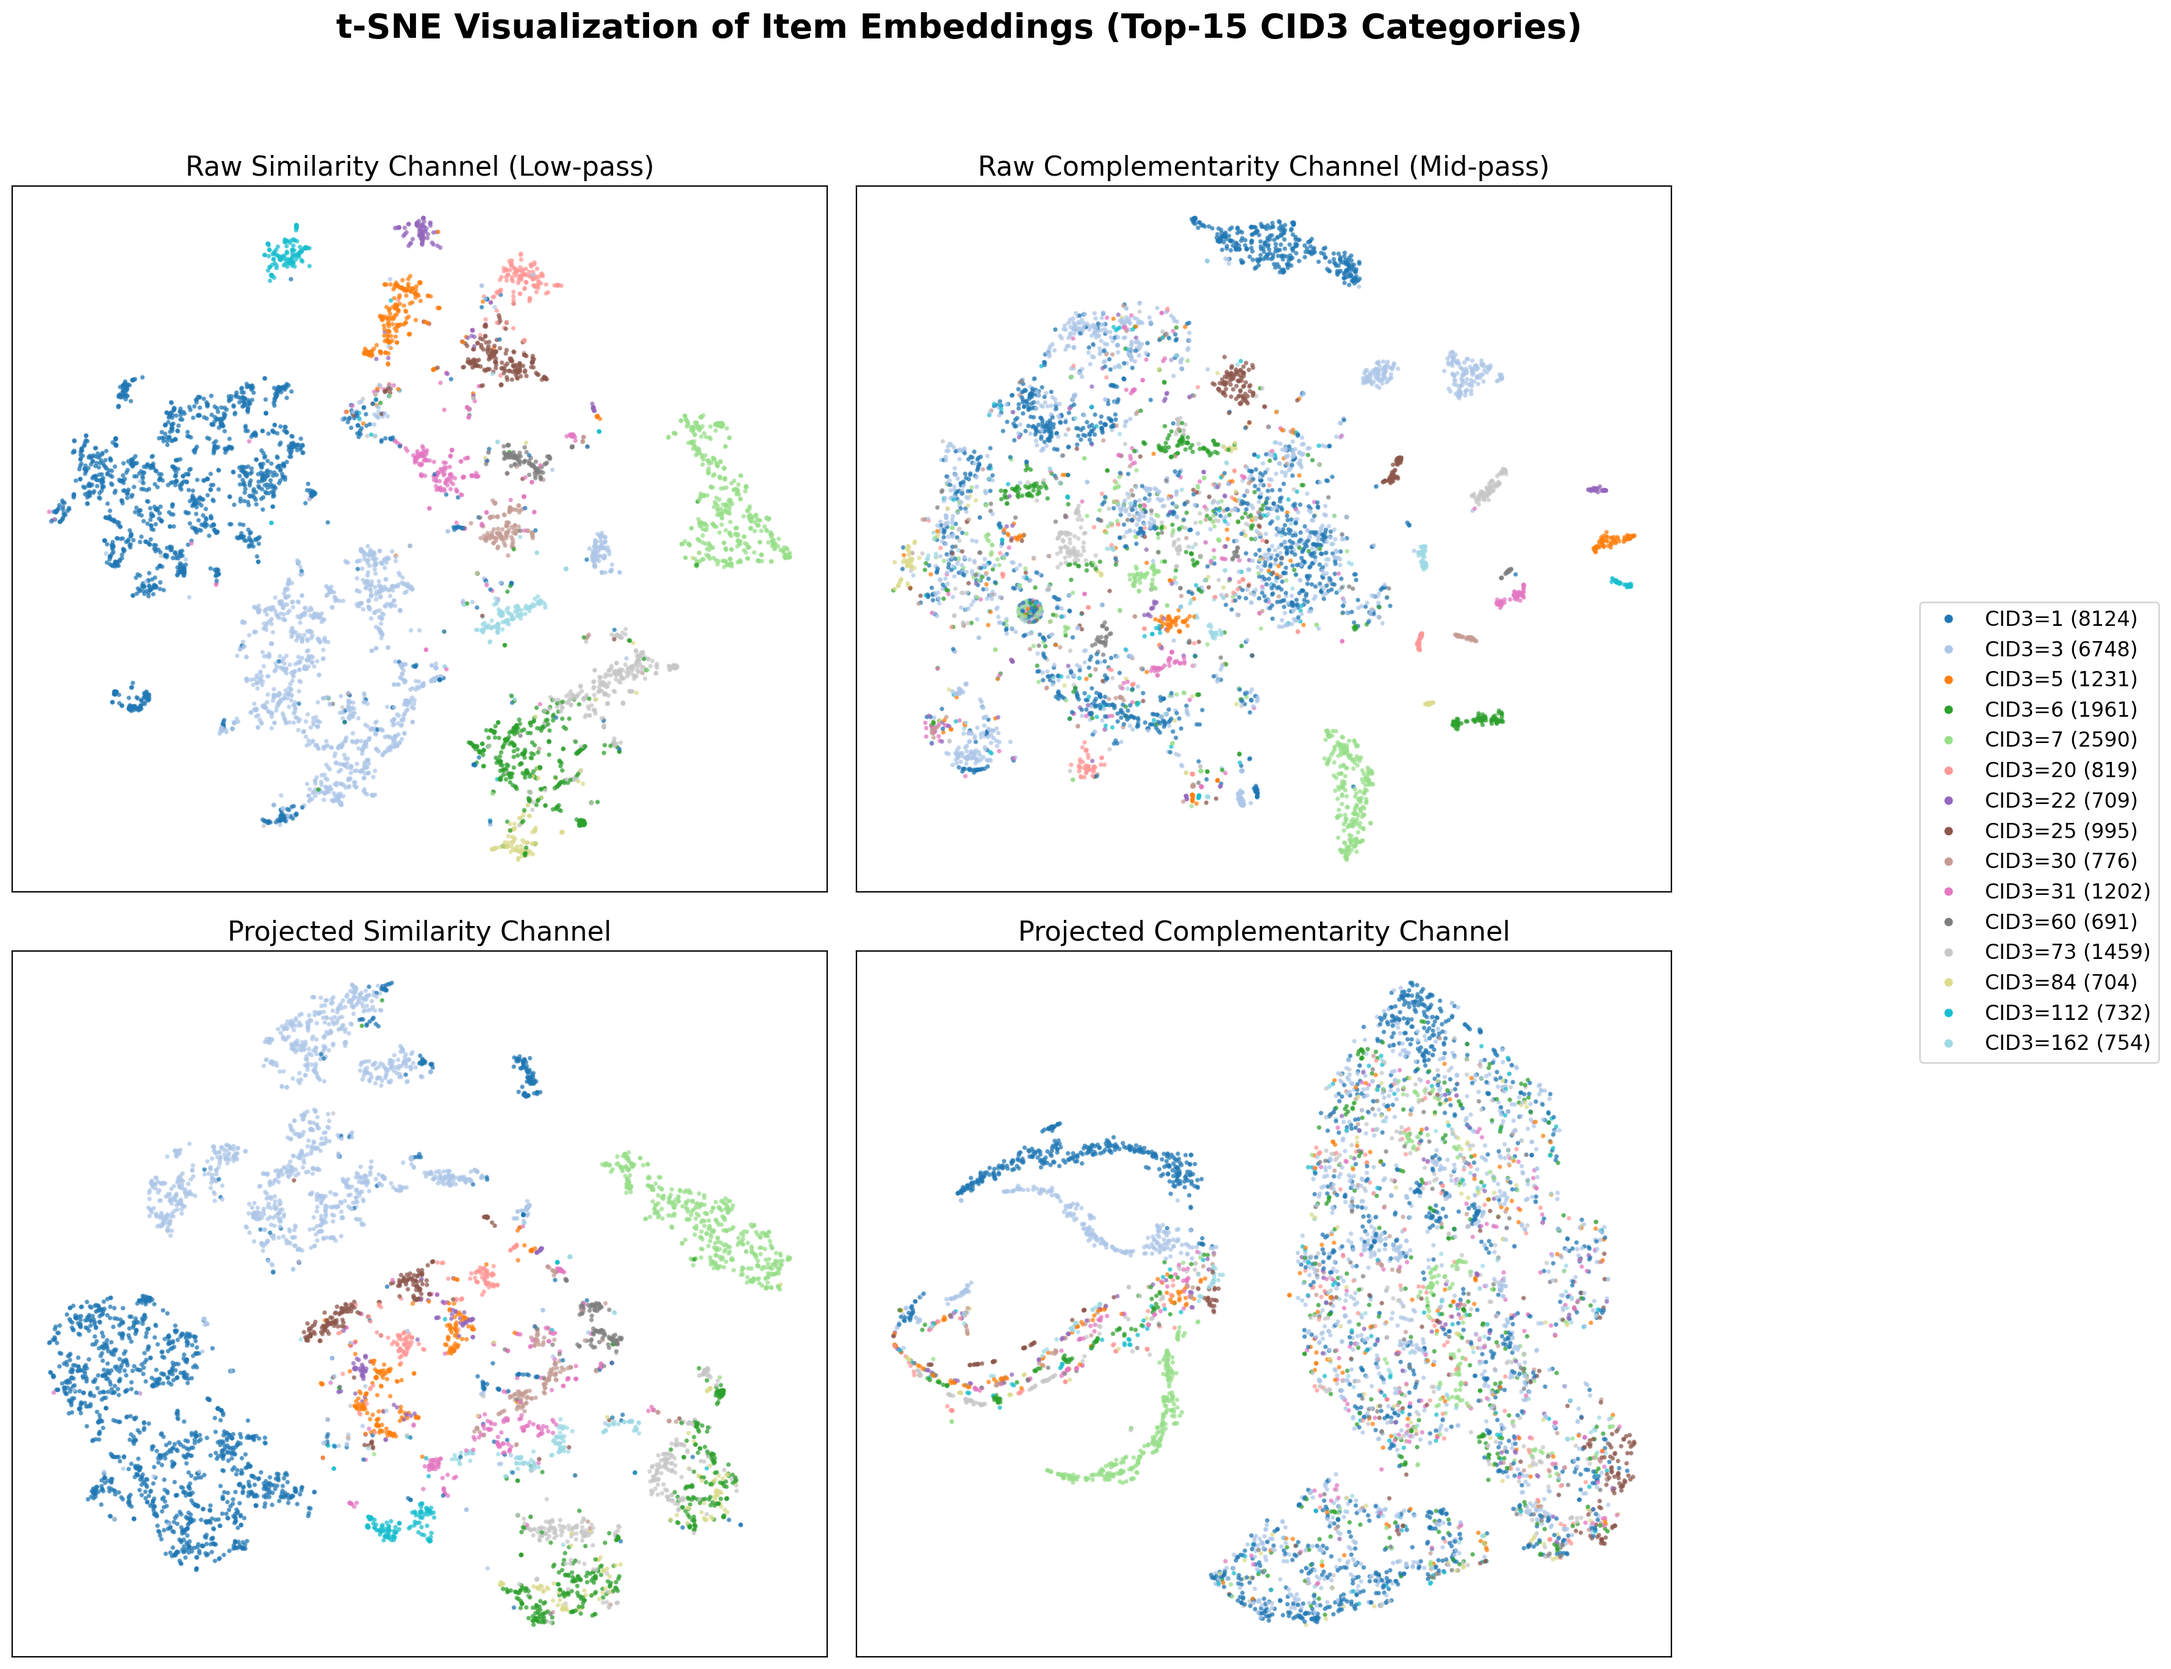
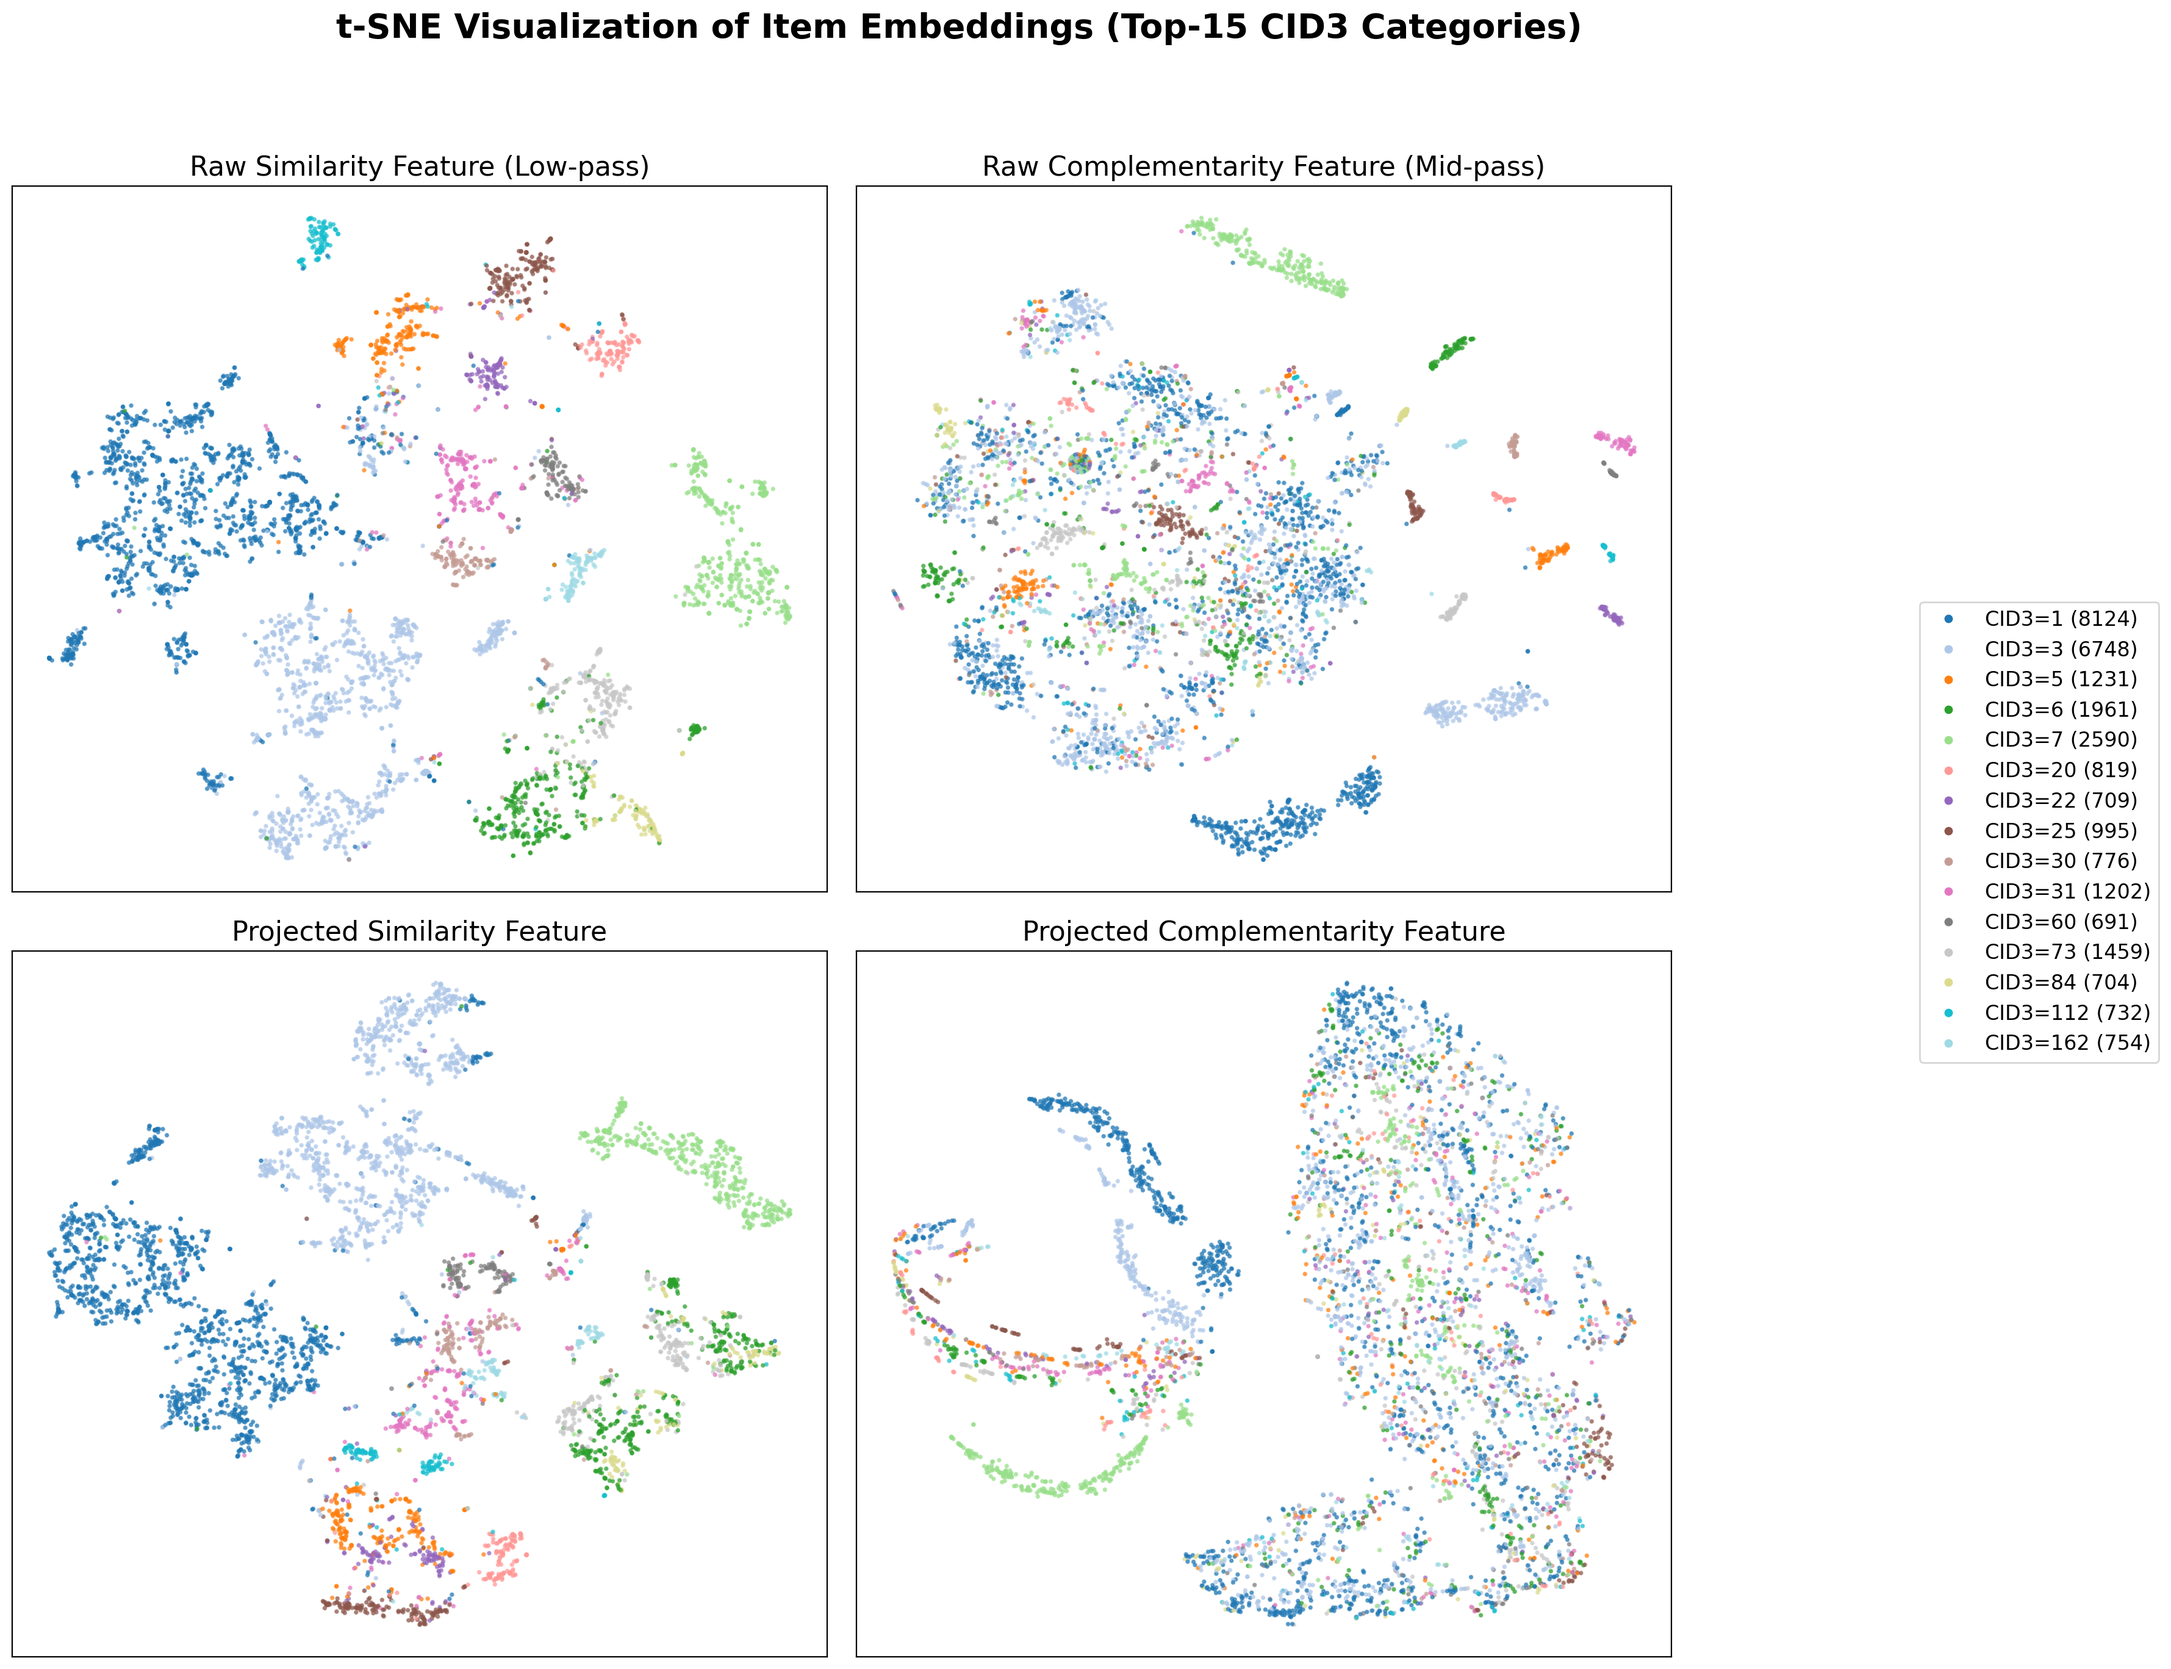
rq1

diff --git a/experiments/RQ1/analyze_rq1.py b/experiments/RQ1/analyze_rq1.py
@@ -275,10 +275,10 @@ def plot_tsne_comparison(embs, features, output_dir, top_k_cid3=15, max_sample=5
 
     # 繪製四個子圖：raw_sim, raw_cor, x_sim, x_cor
     emb_pairs = [
-        ('raw_sim_normed', 'Raw Similarity Channel (Low-pass)'),
-        ('raw_cor_normed', 'Raw Complementarity Channel (Mid-pass)'),
-        ('x_sim', 'Projected Similarity Channel'),
-        ('x_cor', 'Projected Complementarity Channel'),
+        ('raw_sim_normed', 'Raw Similarity Feature (Low-pass)'),
+        ('raw_cor_normed', 'Raw Complementarity Feature (Mid-pass)'),
+        ('x_sim', 'Projected Similarity Feature'),
+        ('x_cor', 'Projected Complementarity Feature'),
     ]
 
     fig, axes = plt.subplots(2, 2, figsize=(16, 14))
@@ -403,18 +403,18 @@ def plot_training_curve(log_path, output_dir):
     fig, axes = plt.subplots(1, 3, figsize=(16, 4.5))
 
     axes[0].plot(epochs, feat_sims, color='#2196F3', linewidth=1)
-    axes[0].set_title('Feat_Sim (x_sim ⊥ x_cor) over Training', fontsize=16)
+    axes[0].set_title(r'Feat_Sim ($x_{sim}$ ⊥ $x_{cor}$) over Training', fontsize=16)
     axes[0].set_xlabel('Epoch')
     axes[0].set_ylabel('Cosine Similarity')
     axes[0].axhline(0, color='gray', linestyle=':', linewidth=0.5)
 
     axes[1].plot(epochs, l_specs, color='#FF5722', linewidth=1)
-    axes[1].set_title('L_spec (Orthogonality Loss) over Training', fontsize=16)
+    axes[1].set_title(r'$L_{orth}$ (Orthogonality Loss) over Training', fontsize=16)
     axes[1].set_xlabel('Epoch')
     axes[1].set_ylabel('Loss')
 
     axes[2].plot(epochs, l_seqs, color='#4CAF50', linewidth=1)
-    axes[2].set_title('L_seq (Recommendation Loss) over Training', fontsize=16)
+    axes[2].set_title(r'$L_{seq}$ (Recommendation Loss) over Training', fontsize=16)
     axes[2].set_xlabel('Epoch')
     axes[2].set_ylabel('Loss')
 
